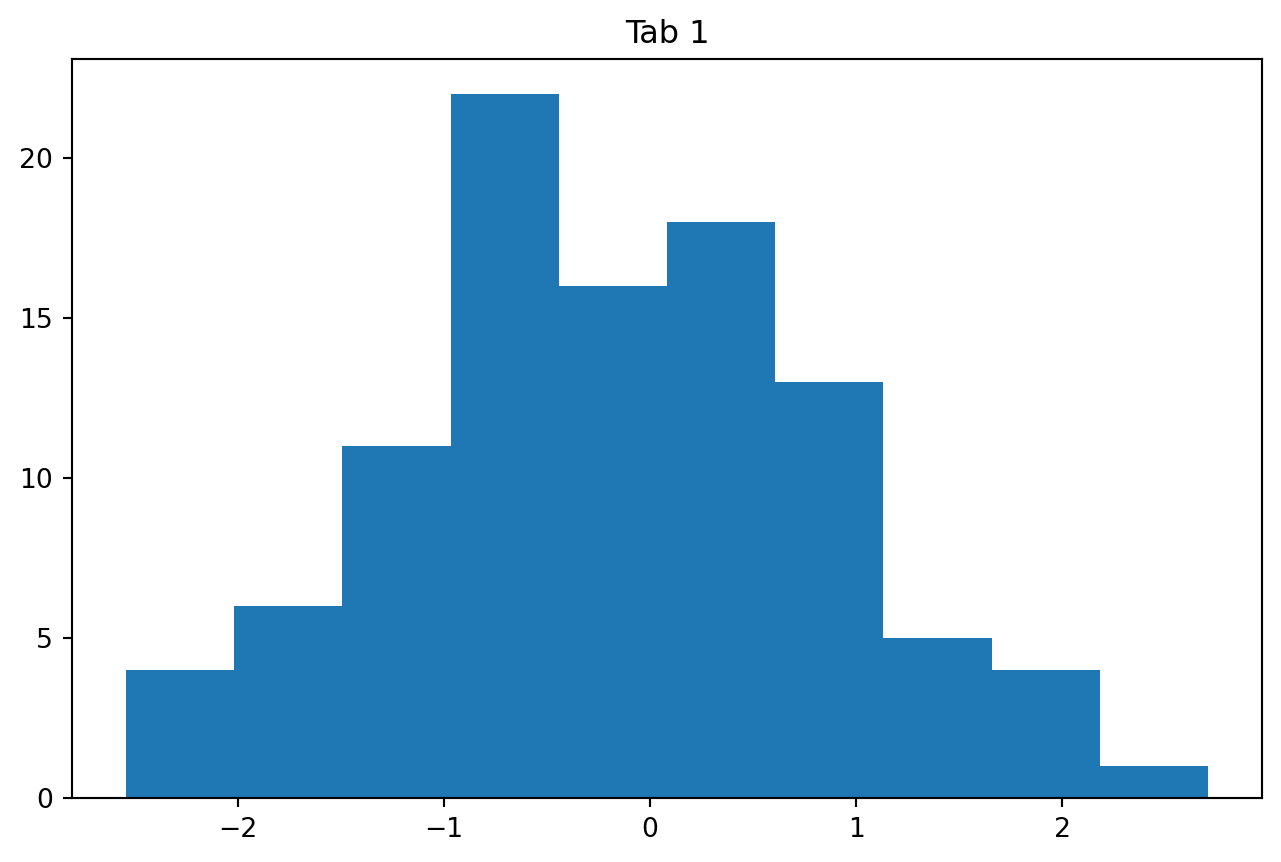
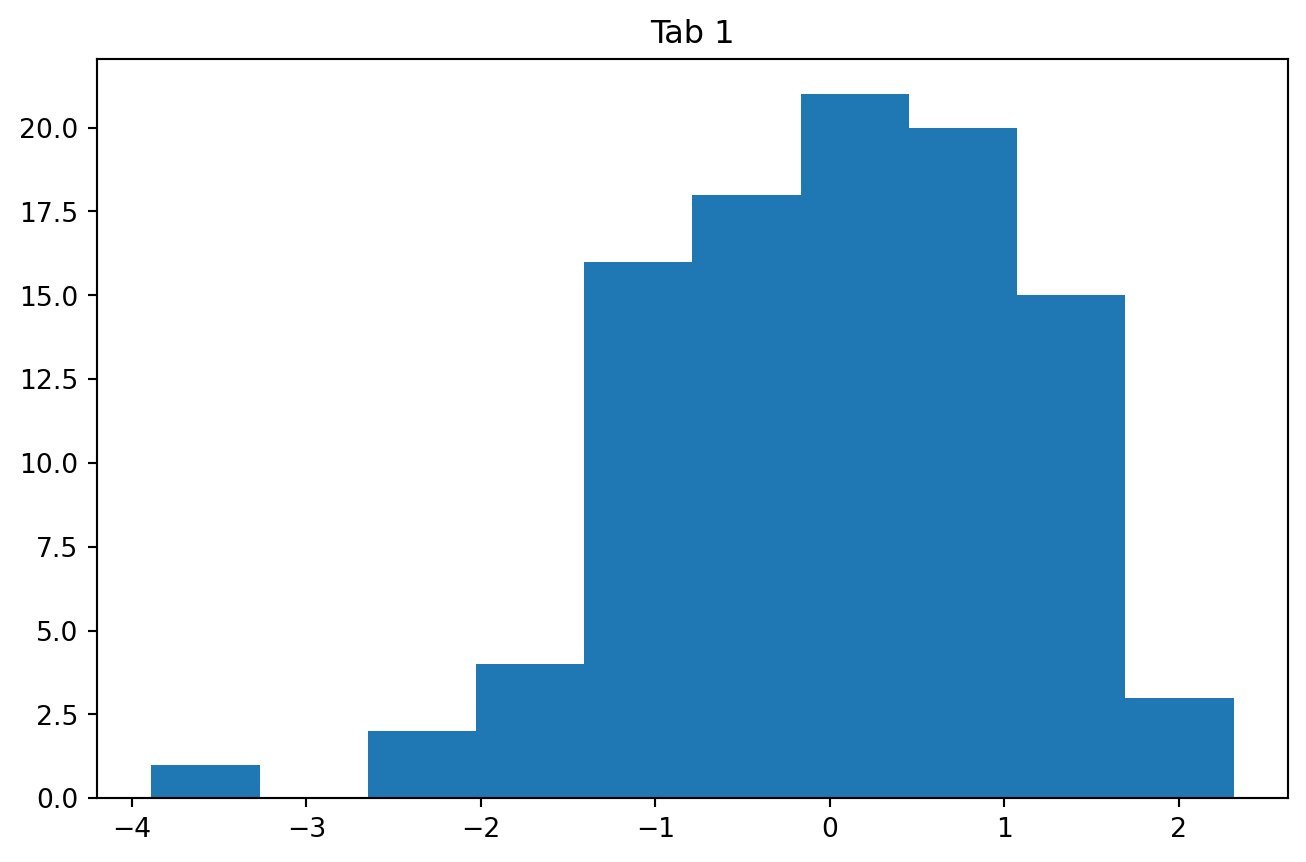
commit

diff --git a/docs/index.html b/docs/index.html
@@ -76,7 +76,10 @@ ul.task-list li input[type="checkbox"] {
 }</script>
 <script src="https://cdnjs.cloudflare.com/ajax/libs/require.js/2.3.6/require.min.js" integrity="sha512-c3Nl8+7g4LMSTdrm621y7kf9v3SDPnhxLNhcjFJbKECVnmZHTdo+IRO05sNLTH/D3vA6u1X32ehoLC7WFVdheg==" crossorigin="anonymous"></script>
 
+
+
 <script type="application/javascript">define('jquery', [],function() {return window.jQuery;})</script>
+
 
 
 </head>
@@ -140,7 +143,7 @@ grid-auto-rows: minmax(0, 1fr);">
 <div class="card cell html-fill-item html-fill-container bslib-card" data-title="Ames Map 집값 지도" data-bslib-card-init="" data-require-bs-caller="card()" data-full-screen="false">
 <div class="card-header"><div class="card-title">Ames Map 집값 지도</div></div>
 <div class="card-body html-fill-item html-fill-container" style="padding: 0px;">
-<div class="cell-output cell-output-display html-fill-item html-fill-container" data-execution_count="14">
+<div class="cell-output cell-output-display html-fill-item html-fill-container" data-execution_count="1">
 
         <iframe width="100%" height="600px" src="maps/ames_house_price_map.html" frameborder="0" allowfullscreen=""></iframe>
         
@@ -216,42 +219,42 @@ grid-auto-rows: minmax(0, 1fr);">
 
 
 <div class="tab-content html-fill-item html-fill-container" data-tabset-id="card-tabset-8"><div class="tab-pane active show html-fill-item html-fill-container" role="tabpanel" id="card-tabset-8-1"><div class="card-body html-fill-item html-fill-container" data-title="Chart 1">
-<div class="cell-output cell-output-display html-fill-item html-fill-container" data-execution_count="15">
-<pre><code>(array([ 1.,  3.,  7., 17., 14., 21., 16.,  9.,  7.,  5.]),
- array([-2.75074269, -2.25411916, -1.75749564, -1.26087212, -0.7642486 ,
-        -0.26762508,  0.22899844,  0.72562196,  1.22224548,  1.718869  ,
-         2.21549252]),
+<div class="cell-output cell-output-display html-fill-item html-fill-container" data-execution_count="2">
+<pre><code>(array([ 4.,  4., 12., 11., 21., 15., 17., 11.,  4.,  1.]),
+ array([-2.35601679, -1.88276779, -1.4095188 , -0.9362698 , -0.46302081,
+         0.01022819,  0.48347718,  0.95672618,  1.42997518,  1.90322417,
+         2.37647317]),
  &lt;BarContainer object of 10 artists&gt;)</code></pre>
 </div>
-<div class="cell-output cell-output-display html-fill-item html-fill-container" data-execution_count="15">
+<div class="cell-output cell-output-display html-fill-item html-fill-container" data-execution_count="2">
 <pre><code>Text(0.5, 1.0, 'Tab 1')</code></pre>
 </div>
 <div class="cell-output cell-output-display html-fill-item html-fill-container">
 <img src="index_files/figure-html/cell-3-output-3.png" class="quarto-dashboard-img-contain">
 </div>
 </div></div><div class="tab-pane html-fill-item html-fill-container" role="tabpanel" id="card-tabset-8-2"><div class="card-body html-fill-item html-fill-container" data-title="Chart 2">
-<div class="cell-output cell-output-display html-fill-item html-fill-container" data-execution_count="16">
-<pre><code>(array([ 3.,  6.,  8., 15., 16., 19., 11.,  9.,  5.,  8.]),
- array([-2.19047554, -1.79457654, -1.39867753, -1.00277853, -0.60687953,
-        -0.21098053,  0.18491848,  0.58081748,  0.97671648,  1.37261549,
-         1.76851449]),
+<div class="cell-output cell-output-display html-fill-item html-fill-container" data-execution_count="3">
+<pre><code>(array([ 6.,  7., 13., 25., 19.,  8., 13.,  6.,  2.,  1.]),
+ array([-1.95032287, -1.50218618, -1.05404949, -0.60591281, -0.15777612,
+         0.29036057,  0.73849726,  1.18663394,  1.63477063,  2.08290732,
+         2.53104401]),
  &lt;BarContainer object of 10 artists&gt;)</code></pre>
 </div>
-<div class="cell-output cell-output-display html-fill-item html-fill-container" data-execution_count="16">
+<div class="cell-output cell-output-display html-fill-item html-fill-container" data-execution_count="3">
 <pre><code>Text(0.5, 1.0, 'Tab 1')</code></pre>
 </div>
 <div class="cell-output cell-output-display html-fill-item html-fill-container">
 <img src="index_files/figure-html/cell-4-output-3.png" class="quarto-dashboard-img-contain">
 </div>
 </div></div><div class="tab-pane html-fill-item html-fill-container" role="tabpanel" id="card-tabset-8-3"><div class="card-body html-fill-item html-fill-container" data-title="Chart 3">
-<div class="cell-output cell-output-display html-fill-item html-fill-container" data-execution_count="17">
-<pre><code>(array([ 3.,  5., 11., 14., 18., 21., 12.,  7.,  4.,  5.]),
- array([-2.30545989e+00, -1.84402785e+00, -1.38259582e+00, -9.21163782e-01,
-        -4.59731745e-01,  1.70029136e-03,  4.63132328e-01,  9.24564364e-01,
-         1.38599640e+00,  1.84742844e+00,  2.30886047e+00]),
+<div class="cell-output cell-output-display html-fill-item html-fill-container" data-execution_count="4">
+<pre><code>(array([ 6., 11., 11., 23., 24., 13.,  8.,  2.,  0.,  2.]),
+ array([-2.1048516 , -1.58188465, -1.0589177 , -0.53595075, -0.01298379,
+         0.50998316,  1.03295011,  1.55591706,  2.07888402,  2.60185097,
+         3.12481792]),
  &lt;BarContainer object of 10 artists&gt;)</code></pre>
 </div>
-<div class="cell-output cell-output-display html-fill-item html-fill-container" data-execution_count="17">
+<div class="cell-output cell-output-display html-fill-item html-fill-container" data-execution_count="4">
 <pre><code>Text(0.5, 1.0, 'Tab 1')</code></pre>
 </div>
 <div class="cell-output cell-output-display html-fill-item html-fill-container">
@@ -273,42 +276,42 @@ grid-auto-rows: minmax(0, 1fr);">
 
 
 <div class="tab-content html-fill-item html-fill-container" data-tabset-id="card-tabset-9"><div class="tab-pane active show html-fill-item html-fill-container" role="tabpanel" id="card-tabset-9-1"><div class="card-body html-fill-item html-fill-container" data-title="Chart 1">
-<div class="cell-output cell-output-display html-fill-item html-fill-container" data-execution_count="18">
-<pre><code>(array([ 4.,  6., 11., 22., 16., 18., 13.,  5.,  4.,  1.]),
- array([-2.54387009, -2.01880425, -1.49373841, -0.96867258, -0.44360674,
-         0.0814591 ,  0.60652493,  1.13159077,  1.65665661,  2.18172245,
-         2.70678828]),
+<div class="cell-output cell-output-display html-fill-item html-fill-container" data-execution_count="5">
+<pre><code>(array([ 1.,  0.,  2.,  4., 16., 18., 21., 20., 15.,  3.]),
+ array([-3.88919652, -3.26873061, -2.6482647 , -2.0277988 , -1.40733289,
+        -0.78686698, -0.16640107,  0.45406484,  1.07453074,  1.69499665,
+         2.31546256]),
  &lt;BarContainer object of 10 artists&gt;)</code></pre>
 </div>
-<div class="cell-output cell-output-display html-fill-item html-fill-container" data-execution_count="18">
+<div class="cell-output cell-output-display html-fill-item html-fill-container" data-execution_count="5">
 <pre><code>Text(0.5, 1.0, 'Tab 1')</code></pre>
 </div>
 <div class="cell-output cell-output-display html-fill-item html-fill-container">
 <img src="index_files/figure-html/cell-6-output-3.png" class="quarto-dashboard-img-contain">
 </div>
 </div></div><div class="tab-pane html-fill-item html-fill-container" role="tabpanel" id="card-tabset-9-2"><div class="card-body html-fill-item html-fill-container" data-title="Chart 2">
-<div class="cell-output cell-output-display html-fill-item html-fill-container" data-execution_count="19">
-<pre><code>(array([ 4.,  4.,  8., 13., 22., 15., 18.,  8.,  4.,  4.]),
- array([-2.40138174, -1.93076776, -1.46015379, -0.98953981, -0.51892584,
-        -0.04831186,  0.42230211,  0.89291609,  1.36353006,  1.83414404,
-         2.30475801]),
+<div class="cell-output cell-output-display html-fill-item html-fill-container" data-execution_count="6">
+<pre><code>(array([ 7., 11., 10., 11., 15., 18.,  9.,  9.,  6.,  4.]),
+ array([-1.87982029, -1.47824188, -1.07666346, -0.67508505, -0.27350663,
+         0.12807178,  0.5296502 ,  0.93122862,  1.33280703,  1.73438545,
+         2.13596386]),
  &lt;BarContainer object of 10 artists&gt;)</code></pre>
 </div>
-<div class="cell-output cell-output-display html-fill-item html-fill-container" data-execution_count="19">
+<div class="cell-output cell-output-display html-fill-item html-fill-container" data-execution_count="6">
 <pre><code>Text(0.5, 1.0, 'Tab 1')</code></pre>
 </div>
 <div class="cell-output cell-output-display html-fill-item html-fill-container">
 <img src="index_files/figure-html/cell-7-output-3.png" class="quarto-dashboard-img-contain">
 </div>
 </div></div><div class="tab-pane html-fill-item html-fill-container" role="tabpanel" id="card-tabset-9-3"><div class="card-body html-fill-item html-fill-container" data-title="Chart 3">
-<div class="cell-output cell-output-display html-fill-item html-fill-container" data-execution_count="20">
-<pre><code>(array([ 3.,  5., 10., 17., 13., 25., 11.,  9.,  5.,  2.]),
- array([-2.27171384, -1.81046663, -1.34921941, -0.8879722 , -0.42672498,
-         0.03452223,  0.49576945,  0.95701666,  1.41826388,  1.87951109,
-         2.34075831]),
+<div class="cell-output cell-output-display html-fill-item html-fill-container" data-execution_count="7">
+<pre><code>(array([ 1.,  1.,  3., 11., 22., 23., 14., 14.,  8.,  3.]),
+ array([-3.50820742, -2.91916207, -2.33011671, -1.74107135, -1.152026  ,
+        -0.56298064,  0.02606471,  0.61511007,  1.20415543,  1.79320078,
+         2.38224614]),
  &lt;BarContainer object of 10 artists&gt;)</code></pre>
 </div>
-<div class="cell-output cell-output-display html-fill-item html-fill-container" data-execution_count="20">
+<div class="cell-output cell-output-display html-fill-item html-fill-container" data-execution_count="7">
 <pre><code>Text(0.5, 1.0, 'Tab 1')</code></pre>
 </div>
 <div class="cell-output cell-output-display html-fill-item html-fill-container">
@@ -335,42 +338,42 @@ grid-auto-rows: minmax(0, 1fr);">
 
 
 <div class="tab-content html-fill-item html-fill-container" data-tabset-id="card-tabset-10"><div class="tab-pane active show html-fill-item html-fill-container" role="tabpanel" id="card-tabset-10-1"><div class="card-body html-fill-item html-fill-container" data-title="Chart 1">
-<div class="cell-output cell-output-display html-fill-item html-fill-container" data-execution_count="21">
-<pre><code>(array([ 5.,  2.,  5., 12., 10., 23., 12., 16., 12.,  3.]),
- array([-2.36775554, -1.94382262, -1.51988969, -1.09595677, -0.67202385,
-        -0.24809093,  0.17584199,  0.59977491,  1.02370783,  1.44764075,
-         1.87157368]),
+<div class="cell-output cell-output-display html-fill-item html-fill-container" data-execution_count="8">
+<pre><code>(array([ 3.,  2.,  1., 14., 16., 18., 21., 10.,  7.,  8.]),
+ array([-2.48597682, -2.02689232, -1.56780782, -1.10872332, -0.64963882,
+        -0.19055432,  0.26853017,  0.72761467,  1.18669917,  1.64578367,
+         2.10486817]),
  &lt;BarContainer object of 10 artists&gt;)</code></pre>
 </div>
-<div class="cell-output cell-output-display html-fill-item html-fill-container" data-execution_count="21">
+<div class="cell-output cell-output-display html-fill-item html-fill-container" data-execution_count="8">
 <pre><code>Text(0.5, 1.0, 'Tab 1')</code></pre>
 </div>
 <div class="cell-output cell-output-display html-fill-item html-fill-container">
 <img src="index_files/figure-html/cell-9-output-3.png" class="quarto-dashboard-img-contain">
 </div>
 </div></div><div class="tab-pane html-fill-item html-fill-container" role="tabpanel" id="card-tabset-10-2"><div class="card-body html-fill-item html-fill-container" data-title="Chart 2">
-<div class="cell-output cell-output-display html-fill-item html-fill-container" data-execution_count="22">
-<pre><code>(array([ 5., 13., 11., 13., 16., 15., 11.,  9.,  3.,  4.]),
- array([-1.87155831, -1.45287127, -1.03418423, -0.6154972 , -0.19681016,
-         0.22187688,  0.64056391,  1.05925095,  1.47793799,  1.89662502,
-         2.31531206]),
+<div class="cell-output cell-output-display html-fill-item html-fill-container" data-execution_count="9">
+<pre><code>(array([ 2.,  2.,  9., 15., 16., 22., 14.,  8.,  7.,  5.]),
+ array([-2.70509441, -2.23009814, -1.75510187, -1.2801056 , -0.80510934,
+        -0.33011307,  0.1448832 ,  0.61987947,  1.09487574,  1.569872  ,
+         2.04486827]),
  &lt;BarContainer object of 10 artists&gt;)</code></pre>
 </div>
-<div class="cell-output cell-output-display html-fill-item html-fill-container" data-execution_count="22">
+<div class="cell-output cell-output-display html-fill-item html-fill-container" data-execution_count="9">
 <pre><code>Text(0.5, 1.0, 'Tab 1')</code></pre>
 </div>
 <div class="cell-output cell-output-display html-fill-item html-fill-container">
 <img src="index_files/figure-html/cell-10-output-3.png" class="quarto-dashboard-img-contain">
 </div>
 </div></div><div class="tab-pane html-fill-item html-fill-container" role="tabpanel" id="card-tabset-10-3"><div class="card-body html-fill-item html-fill-container" data-title="Chart 3">
-<div class="cell-output cell-output-display html-fill-item html-fill-container" data-execution_count="23">
-<pre><code>(array([ 3.,  6.,  8.,  6., 21., 10., 14., 11., 12.,  9.]),
- array([-2.22264862, -1.80175255, -1.38085648, -0.95996041, -0.53906433,
-        -0.11816826,  0.30272781,  0.72362388,  1.14451996,  1.56541603,
-         1.9863121 ]),
+<div class="cell-output cell-output-display html-fill-item html-fill-container" data-execution_count="10">
+<pre><code>(array([ 3.,  3., 10., 20., 21., 20., 12.,  7.,  2.,  2.]),
+ array([-2.82169511, -2.25213606, -1.682577  , -1.11301795, -0.5434589 ,
+         0.02610015,  0.59565921,  1.16521826,  1.73477731,  2.30433636,
+         2.87389542]),
  &lt;BarContainer object of 10 artists&gt;)</code></pre>
 </div>
-<div class="cell-output cell-output-display html-fill-item html-fill-container" data-execution_count="23">
+<div class="cell-output cell-output-display html-fill-item html-fill-container" data-execution_count="10">
 <pre><code>Text(0.5, 1.0, 'Tab 1')</code></pre>
 </div>
 <div class="cell-output cell-output-display html-fill-item html-fill-container">
@@ -392,42 +395,42 @@ grid-auto-rows: minmax(0, 1fr);">
 
 
 <div class="tab-content html-fill-item html-fill-container" data-tabset-id="card-tabset-11"><div class="tab-pane active show html-fill-item html-fill-container" role="tabpanel" id="card-tabset-11-1"><div class="card-body html-fill-item html-fill-container" data-title="Chart 1">
-<div class="cell-output cell-output-display html-fill-item html-fill-container" data-execution_count="24">
-<pre><code>(array([ 5.,  8., 14., 12., 10., 16., 13.,  9.,  6.,  7.]),
- array([-1.96104   , -1.55968527, -1.15833054, -0.7569758 , -0.35562107,
-         0.04573366,  0.4470884 ,  0.84844313,  1.24979786,  1.6511526 ,
-         2.05250733]),
+<div class="cell-output cell-output-display html-fill-item html-fill-container" data-execution_count="11">
+<pre><code>(array([ 2.,  9.,  9., 11., 16., 18., 13., 10., 10.,  2.]),
+ array([-2.51227494, -2.03874999, -1.56522505, -1.0917001 , -0.61817515,
+        -0.14465021,  0.32887474,  0.80239969,  1.27592463,  1.74944958,
+         2.22297453]),
  &lt;BarContainer object of 10 artists&gt;)</code></pre>
 </div>
-<div class="cell-output cell-output-display html-fill-item html-fill-container" data-execution_count="24">
+<div class="cell-output cell-output-display html-fill-item html-fill-container" data-execution_count="11">
 <pre><code>Text(0.5, 1.0, 'Tab 1')</code></pre>
 </div>
 <div class="cell-output cell-output-display html-fill-item html-fill-container">
 <img src="index_files/figure-html/cell-12-output-3.png" class="quarto-dashboard-img-contain">
 </div>
 </div></div><div class="tab-pane html-fill-item html-fill-container" role="tabpanel" id="card-tabset-11-2"><div class="card-body html-fill-item html-fill-container" data-title="Chart 2">
-<div class="cell-output cell-output-display html-fill-item html-fill-container" data-execution_count="25">
-<pre><code>(array([ 3.,  4., 10.,  8., 15., 16., 15., 14.,  8.,  7.]),
- array([-2.18331467, -1.76219415, -1.34107363, -0.91995311, -0.49883259,
-        -0.07771208,  0.34340844,  0.76452896,  1.18564948,  1.60677   ,
-         2.02789051]),
+<div class="cell-output cell-output-display html-fill-item html-fill-container" data-execution_count="12">
+<pre><code>(array([ 3.,  2.,  8., 14., 26., 25., 10.,  8.,  1.,  3.]),
+ array([-2.78189633, -2.23890174, -1.69590715, -1.15291255, -0.60991796,
+        -0.06692336,  0.47607123,  1.01906582,  1.56206042,  2.10505501,
+         2.64804961]),
  &lt;BarContainer object of 10 artists&gt;)</code></pre>
 </div>
-<div class="cell-output cell-output-display html-fill-item html-fill-container" data-execution_count="25">
+<div class="cell-output cell-output-display html-fill-item html-fill-container" data-execution_count="12">
 <pre><code>Text(0.5, 1.0, 'Tab 1')</code></pre>
 </div>
 <div class="cell-output cell-output-display html-fill-item html-fill-container">
 <img src="index_files/figure-html/cell-13-output-3.png" class="quarto-dashboard-img-contain">
 </div>
 </div></div><div class="tab-pane html-fill-item html-fill-container" role="tabpanel" id="card-tabset-11-3"><div class="card-body html-fill-item html-fill-container" data-title="Chart 3">
-<div class="cell-output cell-output-display html-fill-item html-fill-container" data-execution_count="26">
-<pre><code>(array([ 5.,  4., 11., 17., 18., 21., 10.,  9.,  4.,  1.]),
- array([-2.40644515, -1.87022763, -1.33401011, -0.7977926 , -0.26157508,
-         0.27464244,  0.81085996,  1.34707748,  1.883295  ,  2.41951252,
-         2.95573004]),
+<div class="cell-output cell-output-display html-fill-item html-fill-container" data-execution_count="13">
+<pre><code>(array([ 5.,  3.,  8., 21., 23., 20.,  4., 10.,  4.,  2.]),
+ array([-2.17701047, -1.71463875, -1.25226703, -0.78989531, -0.32752359,
+         0.13484813,  0.59721985,  1.05959157,  1.52196329,  1.98433501,
+         2.44670673]),
  &lt;BarContainer object of 10 artists&gt;)</code></pre>
 </div>
-<div class="cell-output cell-output-display html-fill-item html-fill-container" data-execution_count="26">
+<div class="cell-output cell-output-display html-fill-item html-fill-container" data-execution_count="13">
 <pre><code>Text(0.5, 1.0, 'Tab 1')</code></pre>
 </div>
 <div class="cell-output cell-output-display html-fill-item html-fill-container">
